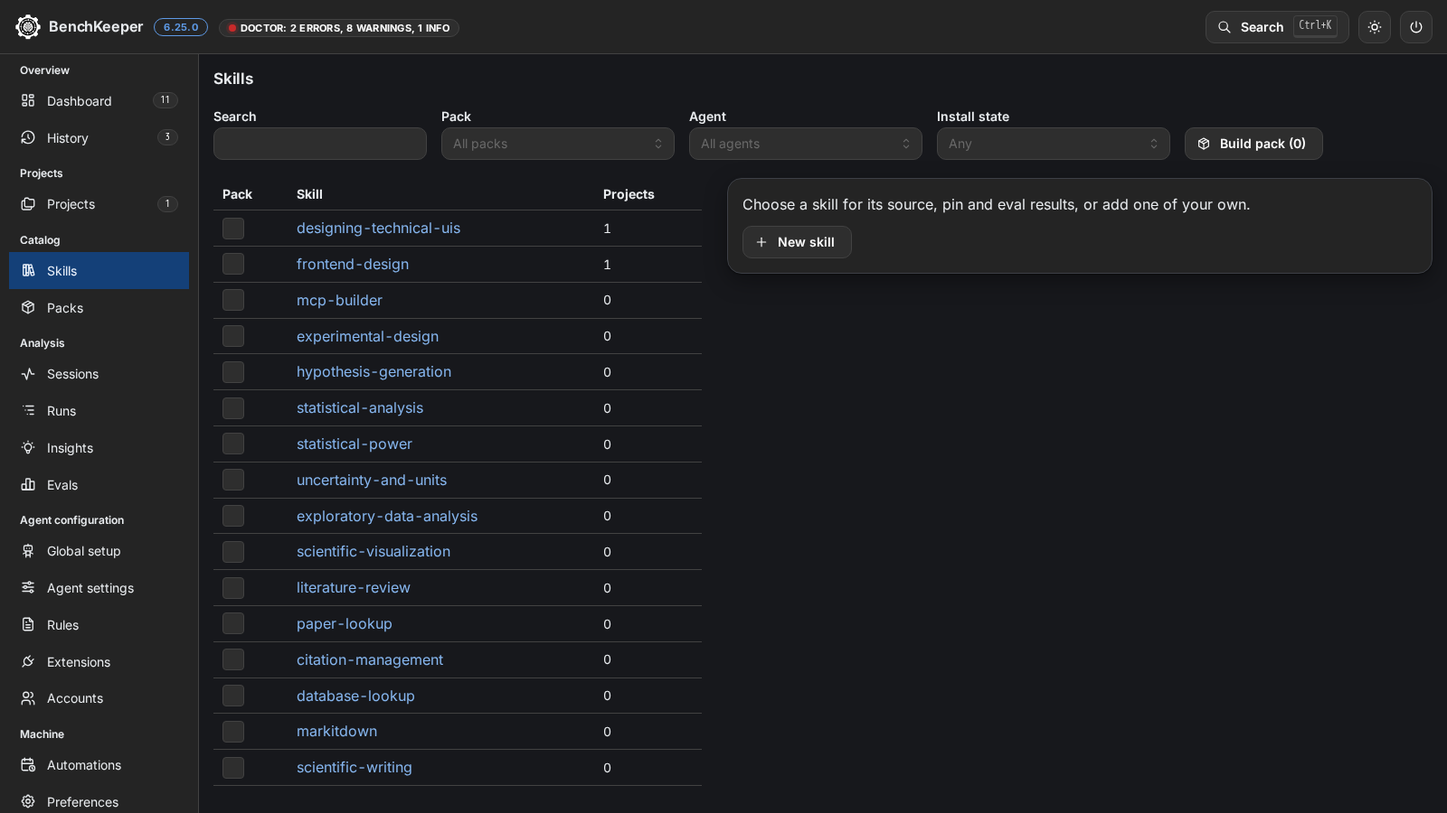
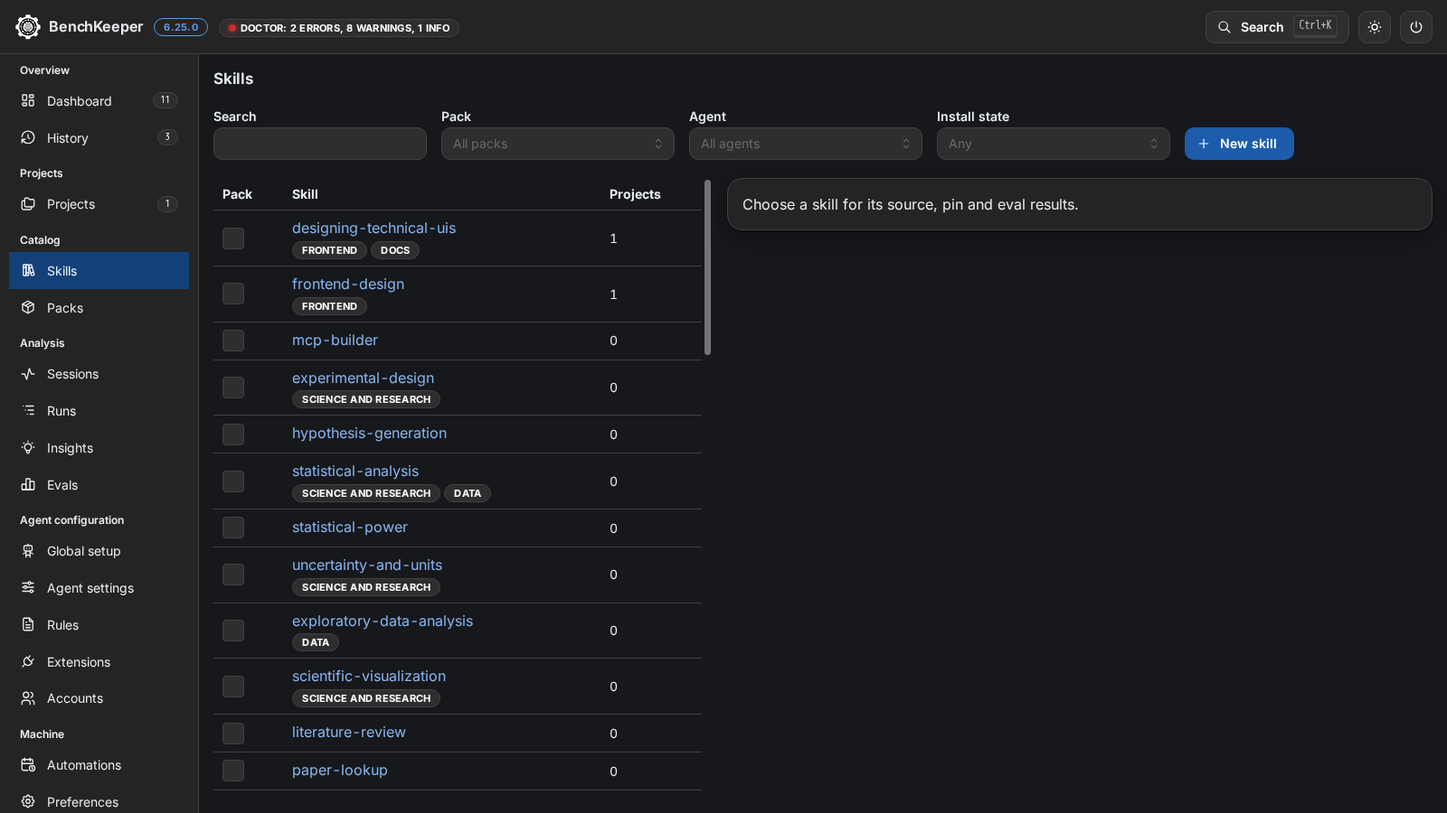
feat(app): show the Skills list with area badges, row actions and the editor in a dialog (#909)
* feat(app): show the Skills list with area badges, row actions and the editor in a dialog

* fix(app): drop stale skill text loads and lock the skill editor while it plans

A skill text that arrives after New or Remove opened no longer replaces that
dialog. While a plan is made the fields are read-only and the dialog stays
open, so the plan carries the text on screen. Modal is imported again after
main dropped it.

diff --git a/app/ui/views.jsx b/app/ui/views.jsx
@@ -1,4 +1,4 @@
-import { Anchor, Badge, Button, Checkbox, Code, Divider, Drawer, FileButton, Group, List, Loader, NavLink, Progress, SegmentedControl, Select, SimpleGrid, Stack, Switch, Table, Tabs, Text, Textarea, TextInput, Title, Tooltip, VisuallyHidden, useComputedColorScheme } from '@mantine/core';
+import { Anchor, Badge, Button, Checkbox, Code, Divider, Drawer, FileButton, Group, List, Loader, Modal, NavLink, Progress, SegmentedControl, Select, SimpleGrid, Stack, Switch, Table, Tabs, Text, Textarea, TextInput, Title, Tooltip, VisuallyHidden, useComputedColorScheme } from '@mantine/core';
 import { IconDeviceFloppy, IconDownload, IconFolderSearch, IconFolders, IconListCheck, IconPackage, IconPlus, IconRefresh, IconTrash, IconUpload } from '@tabler/icons-react';
 import { Component, Suspense, lazy, useEffect, useRef, useState } from 'react';
 import { api } from './api.js';
@@ -75,7 +75,19 @@ export function CatalogSkills({ catalog, params, refresh }) {
   const [picked, setPicked] = useState([]);
   const [builder, setBuilder] = useState(false);
   const [editor, setEditor] = useState(null);
+  const [loadFailed, setLoadFailed] = useState(null);
   const open = params.get('skill');
+  // Each editor action takes a new token; a skill text that arrives after a newer action opened is dropped.
+  const action = useRef(0);
+  const openEditor = (e) => { action.current += 1; setEditor(e); };
+  const edit = async (name) => {
+    const token = ++action.current;
+    setLoadFailed(null);
+    try {
+      const { text } = await api(`/api/skill?name=${encodeURIComponent(name)}`);
+      if (token === action.current) setEditor({ op: 'edit', name, text });
+    } catch (e) { if (token === action.current) setLoadFailed(e.message); }
+  };
   const flip = (n) => setPicked((p) => (p.includes(n) ? p.filter((x) => x !== n) : [...p, n]));
   return (
     <Loading state={catalog} label="catalog">{(c) => {
@@ -84,6 +96,8 @@ export function CatalogSkills({ catalog, params, refresh }) {
         && (!inPack || inPack.includes(s.name)) && (!agent || (agent === 'codex' ? true : s.agents !== 'codex'))
         && (!used || (used === 'used' ? s.projects > 0 : s.projects === 0)));
       const skill = c.skills.find((s) => s.name === open);
+      // The library packs that name a skill are its areas.
+      const areas = (name) => c.packs.filter((p) => !p.own && p.skills?.includes(name)).map((p) => p.title ?? p.id);
       return (
         <Stack gap="lg">
           <Group align="flex-end">
@@ -91,8 +105,10 @@ export function CatalogSkills({ catalog, params, refresh }) {
             <Select label="Pack" placeholder="All packs" clearable value={pack} onChange={setPack} data={c.packs.filter((p) => p.skills).map((p) => ({ value: p.id, label: `${p.title ?? p.id}${p.own ? ' (own)' : ''}` }))} />
             <Select label="Agent" placeholder="All agents" clearable value={agent} onChange={setAgent} data={[{ value: 'claude', label: 'Claude Code' }, { value: 'codex', label: 'Codex' }]} />
             <Select label="Install state" placeholder="Any" clearable value={used} onChange={setUsed} data={[{ value: 'used', label: 'In a project' }, { value: 'unused', label: 'In no project' }]} />
-            <Button leftSection={icon(IconPackage)} variant="default" onClick={() => setBuilder(true)}>Build pack ({picked.length})</Button>
+            {picked.length > 0 && <Button leftSection={icon(IconPackage)} variant="default" onClick={() => setBuilder(true)}>Build pack ({picked.length})</Button>}
+            <Button leftSection={icon(IconPlus)} onClick={() => openEditor({ op: 'new' })}>New skill</Button>
           </Group>
+          {loadFailed && <Note color="red" title="Skill text not loaded">{loadFailed}</Note>}
           <SplitView list={
             <Table aria-label="Skills">
               <Table.Thead><Table.Tr><Table.Th>Pack</Table.Th><Table.Th>Skill</Table.Th><Table.Th>Projects</Table.Th></Table.Tr></Table.Thead>
@@ -100,15 +116,20 @@ export function CatalogSkills({ catalog, params, refresh }) {
                 {skills.map((s) => (
                   <Table.Tr key={s.name}>
                     <Table.Td><Checkbox size="md" aria-label={`Add ${s.name} to the pack`} checked={picked.includes(s.name)} onChange={() => flip(s.name)} /></Table.Td>
-                    <Table.Td><Anchor href={href('skills', { skill: s.name })} aria-current={s.name === open ? 'true' : undefined} fw={s.name === open ? 700 : undefined} style={{ whiteSpace: 'nowrap' }}>{s.name}</Anchor>{s.source === 'user' && <Badge ml="xs" variant="default">yours</Badge>}</Table.Td>
+                    <Table.Td>
+                      <Anchor href={href('skills', { skill: s.name })} aria-current={s.name === open ? 'true' : undefined} fw={s.name === open ? 700 : undefined} style={{ whiteSpace: 'nowrap' }}>{s.name}</Anchor>
+                      <Group gap={4} mt={2}>{s.source === 'user' && <Badge variant="default">yours</Badge>}{areas(s.name).map((a) => <Badge key={a} variant="default">{a}</Badge>)}
+                        {s.source === 'user' && <><Button size="compact-xs" variant="default" aria-label={`Edit ${s.name}`} onClick={() => edit(s.name)}>Edit</Button><Button size="compact-xs" variant="default" color="red" aria-label={`Remove ${s.name}`} leftSection={icon(IconTrash, 12)} onClick={() => openEditor({ op: 'remove', name: s.name })}>Remove</Button></>}
+                      </Group>
+                    </Table.Td>
                     <Table.Td>{s.projects}</Table.Td>
                   </Table.Tr>
                 ))}
               </Table.Tbody>
             </Table>
-          } detail={editor ? <UserSkillEditor key={`${editor.op}:${editor.name}`} {...editor} onDone={refresh} onClose={() => setEditor(null)} />
-            : skill ? <SkillDetail key={skill.name} skill={skill} results={evals.data?.filter((r) => r.target === `skill:${skill.name}`) ?? []} onEdit={(text) => setEditor({ op: 'edit', name: skill.name, text })} onRemove={() => setEditor({ op: 'remove', name: skill.name })} />
-            : <Stack gap="sm" align="flex-start"><Text>Choose a skill for its source, pin and eval results, or add one of your own.</Text><Button leftSection={icon(IconPlus)} variant="default" onClick={() => setEditor({ op: 'new' })}>New skill</Button></Stack>} />
+          } detail={skill ? <SkillDetail key={skill.name} skill={skill} areas={areas(skill.name)} results={evals.data?.filter((r) => r.target === `skill:${skill.name}`) ?? []} onEdit={() => edit(skill.name)} onRemove={() => openEditor({ op: 'remove', name: skill.name })} />
+            : <Text>Choose a skill for its source, pin and eval results.</Text>} />
+          {editor && <UserSkillEditor key={`${editor.op}:${editor.name}`} {...editor} onDone={refresh} onClose={() => openEditor(null)} />}
           <Text size="sm">A skill's state in a project, with Update, Reset and Remove, is on the project's page: <Anchor href={href('projects')} underline="always">Projects</Anchor>.</Text>
           <PackBuilder opened={builder} onClose={() => setBuilder(false)} skills={picked} onRemove={flip} onSaved={() => { setBuilder(false); setPicked([]); refresh(); }} />
           <Cli>{`benchkeeper skills list --library\nbenchkeeper skills show ${open ?? '<name>'}\nbenchkeeper skills new|edit|delete <name>\nbenchkeeper packs save <id> --skill <name>`}</Cli>
@@ -120,7 +141,7 @@ export function CatalogSkills({ catalog, params, refresh }) {
 
 export { CatalogPacks } from './packs.jsx';
 
-function SkillDetail({ skill, results, onEdit, onRemove }) {
+function SkillDetail({ skill, areas, results, onEdit, onRemove }) {
   const copied = ['own', 'user'].includes(skill.source);
   const text = useApi(copied ? `/api/skill?name=${encodeURIComponent(skill.name)}` : null);
   return (
@@ -128,9 +149,9 @@ function SkillDetail({ skill, results, onEdit, onRemove }) {
       <Group justify="space-between"><Title order={3} size="h3">{skill.name}</Title><Button component="a" href={href('skills')} variant="subtle">Close</Button></Group>
       <Text>{skill.pickWhen}</Text>
       <Text size="sm">Source: {skill.source === 'own' ? 'BenchKeeper' : skill.source === 'user' ? 'your skills' : <Anchor href={`https://github.com/${skill.source}/tree/${skill.ref}`} target="_blank" rel="noreferrer">{skill.source}</Anchor>}{skill.ref && <>, pinned at <Code>{skill.ref.slice(0, 12)}</Code></>}{skill.license && `, ${skill.license}`}</Text>
-      {skill.agents === 'codex' && <Badge variant="default">Codex only</Badge>}
+      {(areas.length > 0 || skill.agents === 'codex') && <Group gap={4}>{areas.map((a) => <Badge key={a} variant="default">{a}</Badge>)}{skill.agents === 'codex' && <Badge variant="default">Codex only</Badge>}</Group>}
       {results.length ? <Charts><EvalResults results={results} /></Charts> : <Text size="sm">No eval results for this skill. Measurements: <Anchor href="https://github.com/ESchuderer/BenchKeeper-research/blob/main/EVALUATIONS.md" target="_blank" rel="noreferrer">EVALUATIONS.md</Anchor></Text>}
-      {skill.source === 'user' && <Group gap="xs"><Button size="xs" variant="default" disabled={!text.data} onClick={() => onEdit(text.data.text)}>Edit</Button><Button size="xs" variant="default" color="red" leftSection={icon(IconTrash)} onClick={onRemove}>Remove</Button></Group>}
+      {skill.source === 'user' && <Group gap="xs"><Button size="xs" variant="default" onClick={onEdit}>Edit</Button><Button size="xs" variant="default" color="red" leftSection={icon(IconTrash)} onClick={onRemove}>Remove</Button></Group>}
       {copied && <Loading state={text} label="skill text">{(t) => <Code block tabIndex={0}>{t.text}</Code>}</Loading>}
     </Stack>
   );
@@ -146,25 +167,33 @@ function UserSkillEditor({ op, name: start = '', text: startText = null, onDone,
   const [plan, setPlan] = useState(null);
   const [failed, setFailed] = useState(null);
   const [running, setRunning] = useState(false);
+  const [planning, setPlanning] = useState(false);
   const body = text ?? skillTemplate(name);
+  // The fields stay read-only while the plan is made, so the plan carries the text on screen.
   const save = async () => {
     setFailed(null);
-    try { setPlan(await api('/api/user-skill-plan', { op, name, text: body })); } catch (e) { setFailed(e.message); }
+    setPlanning(true);
+    try { setPlan(await api('/api/user-skill-plan', { op, name, text: body })); } catch (e) { setFailed(e.message); } finally { setPlanning(false); }
   };
   useEffect(() => { if (op === 'remove') void save(); }, []);
   const title = op === 'new' ? 'New skill' : `${op === 'edit' ? 'Edit' : 'Remove'} skill ${start}`;
+  // A plan being made, a running apply and unsaved text keep the dialog open against Escape and a click outside.
+  const lock = planning || running || (!plan && (name !== start || text !== startText));
+  const close = () => !planning && !running && onClose();
   return (
-    <Stack gap="sm" component="section" aria-label={title}>
-      <Title order={3} size="h3">{title}</Title>
-      {op === 'new' && <TextInput label="Name" description="1 to 64 lowercase letters, digits and single hyphens" value={name} readOnly={!!plan} onChange={(e) => setName(e.currentTarget.value)} />}
-      {op !== 'remove' && <Textarea label="SKILL.md" value={body} readOnly={!!plan} onChange={(e) => setText(e.currentTarget.value)} autosize minRows={8} maxRows={24} spellCheck={false} styles={{ input: { fontFamily: 'var(--mantine-font-family-monospace)' } }} />}
-      {failed && <Note color="red" title="Not planned">{failed}</Note>}
-      {plan && <Plan key={plan.planId} plan={plan} why={`You asked for this in Skills: ${title}.`} scope="global" onRunning={setRunning} onDone={onDone} />}
-      <Group>
-        {!plan && op !== 'remove' && <Button onClick={save} disabled={op === 'new' ? !name : body === startText}>Save</Button>}
-        <Button variant="default" data-disabled={running || undefined} aria-disabled={running || undefined} onClick={() => !running && onClose()}>{plan || op === 'remove' ? 'Close editor' : 'Discard'}</Button>
-      </Group>
-    </Stack>
+    <Modal opened onClose={close} size="xl" closeOnEscape={!lock} closeOnClickOutside={!lock} withCloseButton={false} attributes={{ content: { 'aria-label': title } }}>
+      <Stack gap="sm" component="section" aria-label={title}>
+        <Title order={3} size="h3">{title}</Title>
+        {op === 'new' && <TextInput label="Name" description="1 to 64 lowercase letters, digits and single hyphens" value={name} readOnly={planning || !!plan} onChange={(e) => setName(e.currentTarget.value)} />}
+        {op !== 'remove' && <Textarea label="SKILL.md" value={body} readOnly={planning || !!plan} onChange={(e) => setText(e.currentTarget.value)} autosize minRows={8} maxRows={24} spellCheck={false} styles={{ input: { fontFamily: 'var(--mantine-font-family-monospace)' } }} />}
+        {failed && <Note color="red" title="Not planned">{failed}</Note>}
+        {plan && <Plan key={plan.planId} plan={plan} why={`You asked for this in Skills: ${title}.`} scope="global" onRunning={setRunning} onDone={onDone} />}
+        <Group>
+          {!plan && op !== 'remove' && <Button onClick={save} loading={planning} disabled={op === 'new' ? !name : body === startText}>Save</Button>}
+          <Button variant="default" data-disabled={planning || running || undefined} aria-disabled={planning || running || undefined} onClick={close}>{plan || op === 'remove' ? 'Close editor' : 'Discard'}</Button>
+        </Group>
+      </Stack>
+    </Modal>
   );
 }
 

diff --git a/web/src/components/AppPage.tsx b/web/src/components/AppPage.tsx
@@ -55,10 +55,10 @@ export const VIEWS: { id: string; view: string; title: string; shot: string; alt
   },
   {
     id: 'skills', view: 'skills', title: 'Skills', shot: 'skills',
-    alt: 'The Skills page of the Catalog: search, the filters for pack, agent and install state, the Build pack button, then the library skills, each with a checkbox for the pack and the number of projects that have it, and beside them New skill.',
+    alt: 'The Skills page of the Catalog: search, the filters for pack, agent and install state, New skill, then the library skills, each with a checkbox for the pack, badges for the library packs that name it and the number of projects that have it.',
     text: [
       'The Catalog has two pages. Skills lists the library skills with the number of projects that have each and the source, pin and eval results of the one you open, and builds own packs from them.',
-      'New skill adds a skill of your own, marked "yours" in the list, with Edit and Remove on its detail. Each is a plan with a diff. A project or own pack picks it like a library skill and gets a copy.',
+      'New skill adds a skill of your own, marked "yours" in the list, with Edit and Remove on its row and its detail. Each opens a dialog and ends in a plan with a diff. A project or own pack picks it like a library skill and gets a copy.',
       'The state of each skill in a project (current, outdated, modified, removed or disabled), with an Active switch and Update, Reset and Remove, is on the project\'s Installs tab.',
     ],
     cli: [`${V} skills list --library`, `${V} skills new <name>`, `${V} skills update <name> --project <dir>`],

diff --git a/app/README.md b/app/README.md
@@ -175,7 +175,7 @@ The sidebar groups the views: Overview (Dashboard, History), Projects (Projects)
 |---|---|
 | Dashboard | from the top: the status panel (the count of items that need attention with the global setup and each project it counts as links, the projects that cannot be read, Fix everything, and the Set up menu with Set up everything, Set up global only and Set up projects) and the Doctor findings strip (the count of findings, linked to the Doctor section, with the count by level); Health, one bar of item states (current, modified, outdated, missing, removed, foreign, and untracked for a skill folder in a project that BenchKeeper did not install) with each count a link to what it counts; Where, one state bar per scope (the global setup and every project) with its counts and packs; Doctor, the three worst findings, errors first, one line each with its action, and a link to all of them in Insights; folded below them, every finding with the action that fixes one (Plan fix, Review removal, Open settings or Plan project) or the fix by hand, a link to the source a fix names, each run id a finding names linked to History, and Dismiss on a finding that is an opinion; "Dismissed (n)" lists the dismissed findings and declined changes with Show again; Recent runs, the last 6. Folded under "More about the setup": the Setup flow, the install level and what the next adds, the BenchKeeper plugin per agent, the installed skills and packs (global and per project), coverage (the projects that chose each pack, per agent; skills that exist for one agent only are marked; packs no project chose are one line of links), the catalog by pack as a sorted bar list, and the global setup by part and agent (a cell opens that agent's plan). Every figure links to the Global setup, Projects or Catalog view it counts, which opens filtered (Projects by pack and agent, Catalog by pack and agent). One-run setup (buttons on the Dashboard, entries in the command palette): Set up everything, Set up global only or Set up projects, with a level choice for the global setup and a checklist of the projects Update all does not leave alone (a shared setup, one still committed or no repository stay with Update all). One start form and one consent for the agent suggestion sessions (read only, one at a time) of the projects without a setup; one progress bar with a line per item (waiting, running, ready, failed with the reason, cancelled); one review page with a section for the global plan and one per project, a checkbox per section and per change, each diff behind a button, and the project's answers (agents, environment, packs, tier) editable in place, which builds its plan again; then one apply job with progress per section and a link to each run in History for undo. A failed suggestion or plan shows its reason and leaves the rest, a failed section leaves the others. Cancel during preparation stops the running suggestion session and keeps what is ready for review; during the apply it stops after the change that runs. Fix everything walks through four steps (the global plan, the projects behind or with pending changes, none checked at first, the doctor findings left to do by hand, a summary) and then applies the global plan and runs Update all for each checked project; "Stop after this project" skips the rest. A global setup that fails or is cancelled leaves the projects unless you start them anyway; the doctor runs again at the end. It stays open over other views until the run is over |
 | Projects | registered projects as cards (the default) or a table, the choice kept in the browser. A card: name and folder (cut at its start), a health dot (in sync, outdated, modified, folder not found, not set up) with the count of doctor findings, the setup in one line (agents, default tier, workflow owner) with its packs, sessions per day of the last 30 days as a bar graph with a text alternative (all agents and the repository's worktrees; the total with its change against the previous 30 days, the cost with the count of sessions without one, the last session and its tier), and Details, Open board (the Sessions view), Set up or Apply (the project's plan), Update and Remove setup. The name or Details opens the project's page: name, health dot and folder, Change setup, a More menu with Open folder, Edit name and notes, Relocate and the two removals, and the tabs Overview (the card's facts, its items by state, the project doctor), Installs (one switch each for packs (in use or suggested as rows, the others as a two-column grid with scope and state under Details), the workflow owner, skills and agent files, with a scope hint: only this project or also global, a scope an agent fixes with its reason, the state on disk, and summary, plain words, impact, default and current; a read-only block of what the global setup makes active here (global packs the project does not select, the BenchKeeper plugin, global skills) with a link to Global setup; the plan below, which alone changes the project, with its diff and undo; Set up (when the project has no setup yet); Skill states: each skill of the project with its state, commit installed and, after Check for updates, the source's newest, a switch to deactivate and activate, Update, Reset, Remove, filter by state, each action opening its plan with the diff, then apply and undo, and untracked folders with Adopt for library skills, left alone otherwise), Sessions (the board with only its sessions), Rules and settings (its instruction files and its project and local settings files) and History (its runs). Above them the totals of the projects shown (projects, in sync, need attention, sessions in the last 7 days) and one health bar. The table: one row each: name and tree state, then path (cut at its start) and branch; one setup status (current, behind or not set up, and local or shared); skills each session of a chosen agent loads (the project's own with its global and plugin skills); pending changes; on the project's page its plan, pack switches (the packs in use or suggested by its files first, then the others, each with when to pick it; with Copy packs from project; the preview lists the skills a pack takes along or removes), skill switches and doctor findings; add (another worktree of a registered repository is offered, not added; a folder inside a project is flagged), scan a parent folder, New from preset (starts a new folder from a saved preset, shows the plan, registers the folder and then recommends skills to turn off and packs to add, none chosen), search, filter chips (needs attention, no setup, folder not found, each pack and agent in use; every chip on must hold) and a sort (name, health, last change), display name and notes, Relocate for a folder that moved (a missing folder shows Folder not found with Relocate and Remove), Remove from list and Remove BenchKeeper setup (every file listed first; a local setup is a run with undo in History, a shared one a commit on a local branch), the same four plus Update and Set up for several selected projects at once (the bar shows only with a selection) with one confirmation naming the count, Update all with progress per project and, per committed branch, the command that pushes it. A project without a state file is set up step by step (agents with where the setup lives: on this machine, the default, or in the repository as a local branch with one commit, which you push; environment with the dev container as default, packs and skills with suggestions from its files, tier, review), one project after the other; Prefill all with an agent, on the first project of a batch, runs one suggestion session per project after one consent, one at a time with a state per project (waiting, running, ready, failed, cancelled); each project's steps then start from its suggestion, still reviewed and applied one by one (a reload loses suggestions not yet used). Change setup reopens these steps from the state file; Open folder shows the project in the file manager. Suggest with an agent asks first, then runs one read-only session (Claude Code `-p --restricted --strict-mcp-config` with Read, Grep and Glob; Codex `exec` with a permission profile that reads only the project, the system's minimal paths and Codex itself, writes nothing, and runs without web search and MCP servers) in the project on your subscription; only library packs, skills and environments from its answer are taken. The steps only the user can start (the setup skill session, a pack's own setup) show in the review step, the result step and the project doctor as a Start in a terminal block: agent, project folder and the full `benchkeeper sessions record --project <dir> -- <agent> '<prompt>'` line with Copy. The app does not run the command: paste it in your own terminal; the recorded run shows in History with its exit code and changed files, and Check again reads the project doctor again, whose warning is gone once the files the step writes exist |
-| Skills | the Catalog's library skills and your own (marked "yours") with filters (`skills list --library`), skill detail with eval results (`skills show`), pack builder (`packs save`, warns about overlapping descriptions). New skill, and Edit and Remove on one of yours, open its `SKILL.md` text and show the plan with its diff (`skills new`, `skills edit`, `skills delete`). A skill's state in a project is on the project's page |
+| Skills | the Catalog's library skills and your own (marked "yours") with filters and the library packs that name each skill as badges (`skills list --library`), skill detail with eval results (`skills show`), pack builder (`packs save`, warns about overlapping descriptions). New skill, and Edit and Remove on one of yours (on its row and its detail), open its `SKILL.md` text in a dialog and show the plan with its diff (`skills new`, `skills edit`, `skills delete`). A skill's state in a project is on the project's page |
 | Packs | the Catalog's library packs and own packs with the projects that use them (`packs list`, `packs show`), export, import (asks before it replaces an own pack, the old file goes to `backup/packs/`) and removal (off while a project uses the pack). A pack is defined once and switched on per project, on the project's Installs tab (`packs enable --project`) |
 | Global setup | only global things: detected agents; what is installed globally by part (plugins and packs, skills, rules, settings, machine tools, other), each part with its count, the items that need attention and its state per item behind Show items, and a link to the view that edits it (Extensions, Rules, Agent settings); a box on each item that needs attention (a removal starts unticked), and the button "Plan N items" starts the plan with the ticked ones, a tick after that drops the open plan; a link to Accounts; the line "Per-project setup lives in each project" with a link to Projects (per-project controls are in a project's Installs tab); and the global plan for the chosen agents. A skills CLI install in a plan (here, in a project's plan and in setup review) runs first, on a click, in a scratch folder with its own `HOME` and `CODEX_HOME`, `CLAUDE_CONFIG_DIR` and `XDG_*` unset, so the plan shows the files it would write (mapped back to the folders those variables point to); links are copied as what they point to, npm uses a scratch cache and your `.npmrc` without credentials, git an empty config. It runs inside an OS sandbox (`srt`; bubblewrap on Linux and WSL2 and `sandbox-exec` on macOS confine writes only where `srt` cannot run) that stops a write outside the scratch folder and, with `srt`, limits the network to the registry, GitHub and your registry host. Where none starts (Windows has none) the preview is off and says why; "Rehearse anyway without a sandbox" runs it with the scratch `HOME` only. `doctor` names what to install. Three run at a time; a result is kept 10 minutes or until the app changes files, and an apply stops a rehearsal still running. Apply shows each change as it runs, with the command output, then the run report in place of the plan. Cancel skips the changes not started yet |
 | Sessions | the sessions board (see `sessions board`), scanned when the view opens, with progress and Rescan; each scan also rewrites `board.html`, which the status band's board button opens. Ponytail's ledger, when present, adds its figures and ledger-only rows (see `docs/setup.md`). The per-day chart shows all series of a day on hover, tap or with the arrow keys; a click on a project in the rail filters the whole page. In the app the filters stand in a column left of the figures, the project choice first as one chip that opens the list (registered repositories first, one entry per repository with its worktrees folded in, with a search); at phone width one Filters button opens the column. Four figures lead, the others fold under More figures. When Ponytail's own board page (`board.html` next to its ledgers) exists, Open Ponytail's board opens that file in the browser; no other path is opened |
